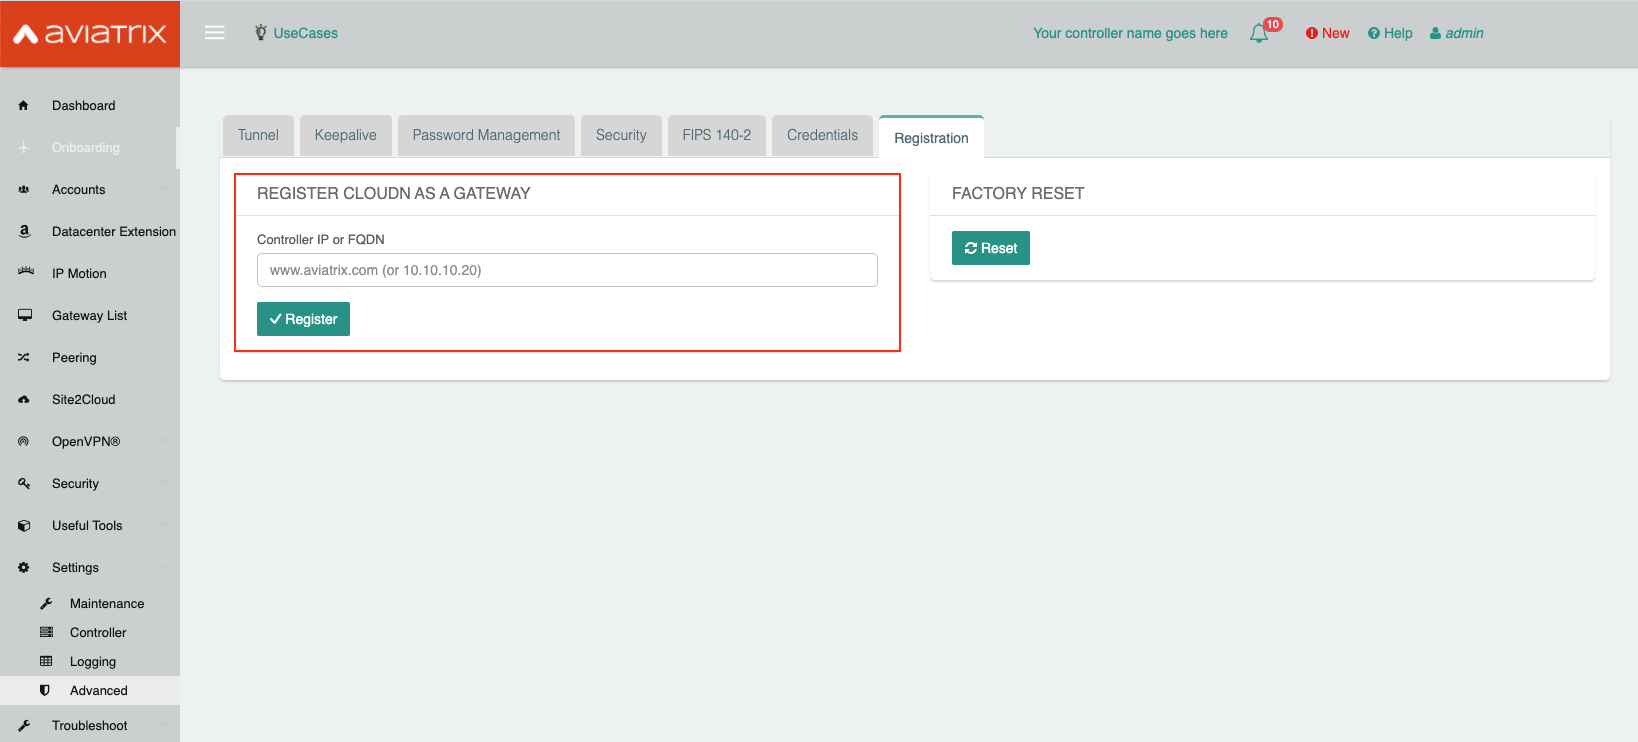
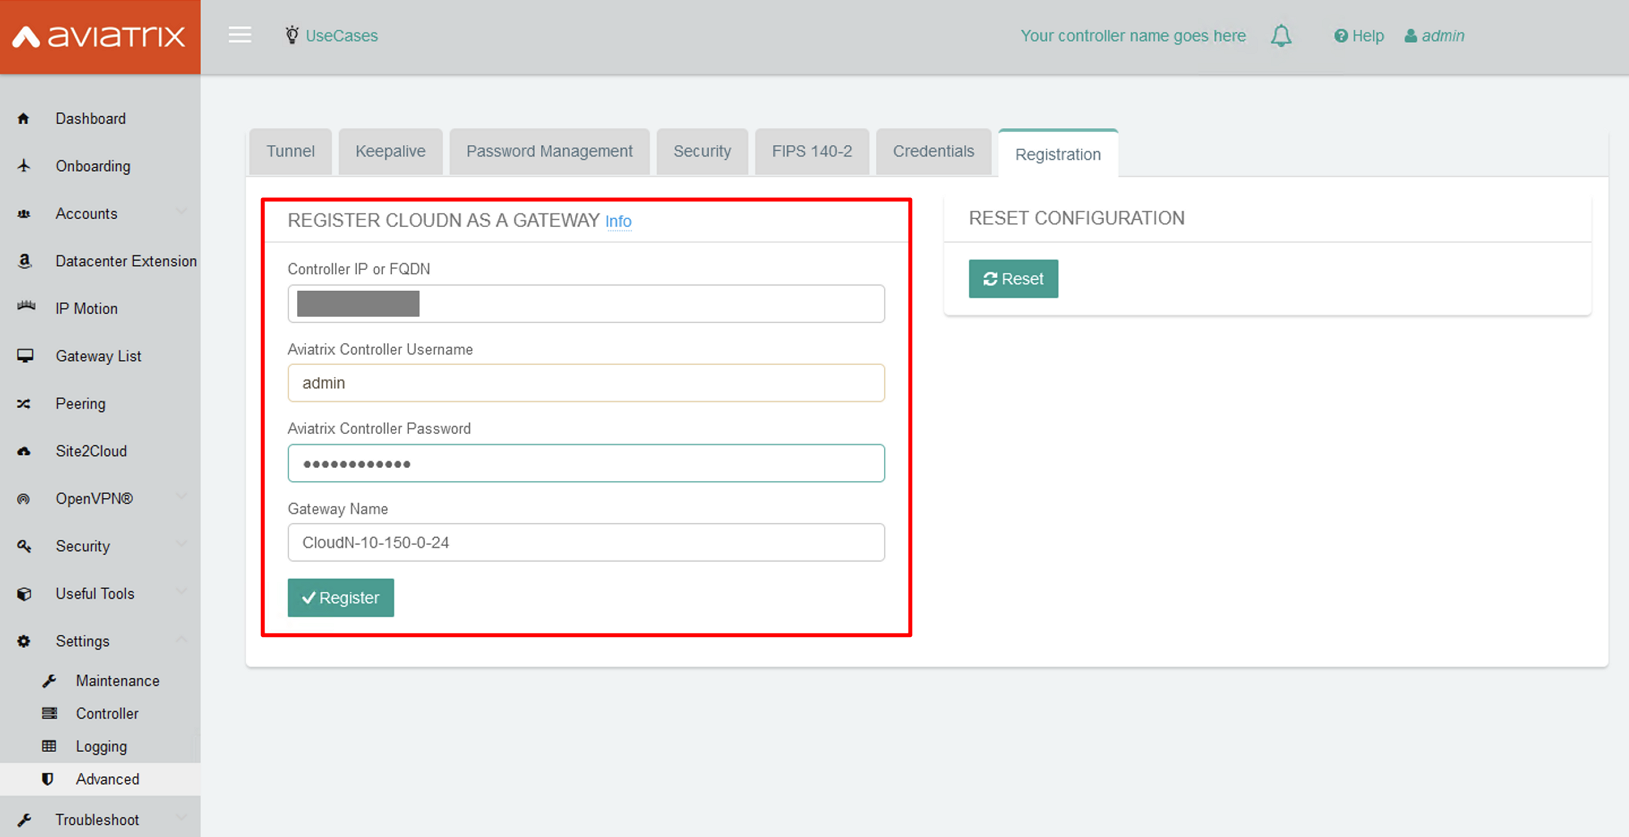
Update registration new GUI and fields description (#596)
* update registeration new gui

* Update registration fields description

diff --git a/HowTos/CloudN_workflow.rst b/HowTos/CloudN_workflow.rst
@@ -218,6 +218,10 @@ Step 2.5 Register with Aviatrix Controller FQDN Name
 
 			It is highly recommended that a FQDN name is used instead of an IP address for enhanced security and controller HA.
 	
+	- Enter Aviatrix Controller Username/Password with an admin user credential (any users in admin RBAC Groups)
+	
+	- Enter Gateway Name to represent this CloudN device
+	
 	- Click the button "Register"
 	
 	- Click the button "OK" to confirm
